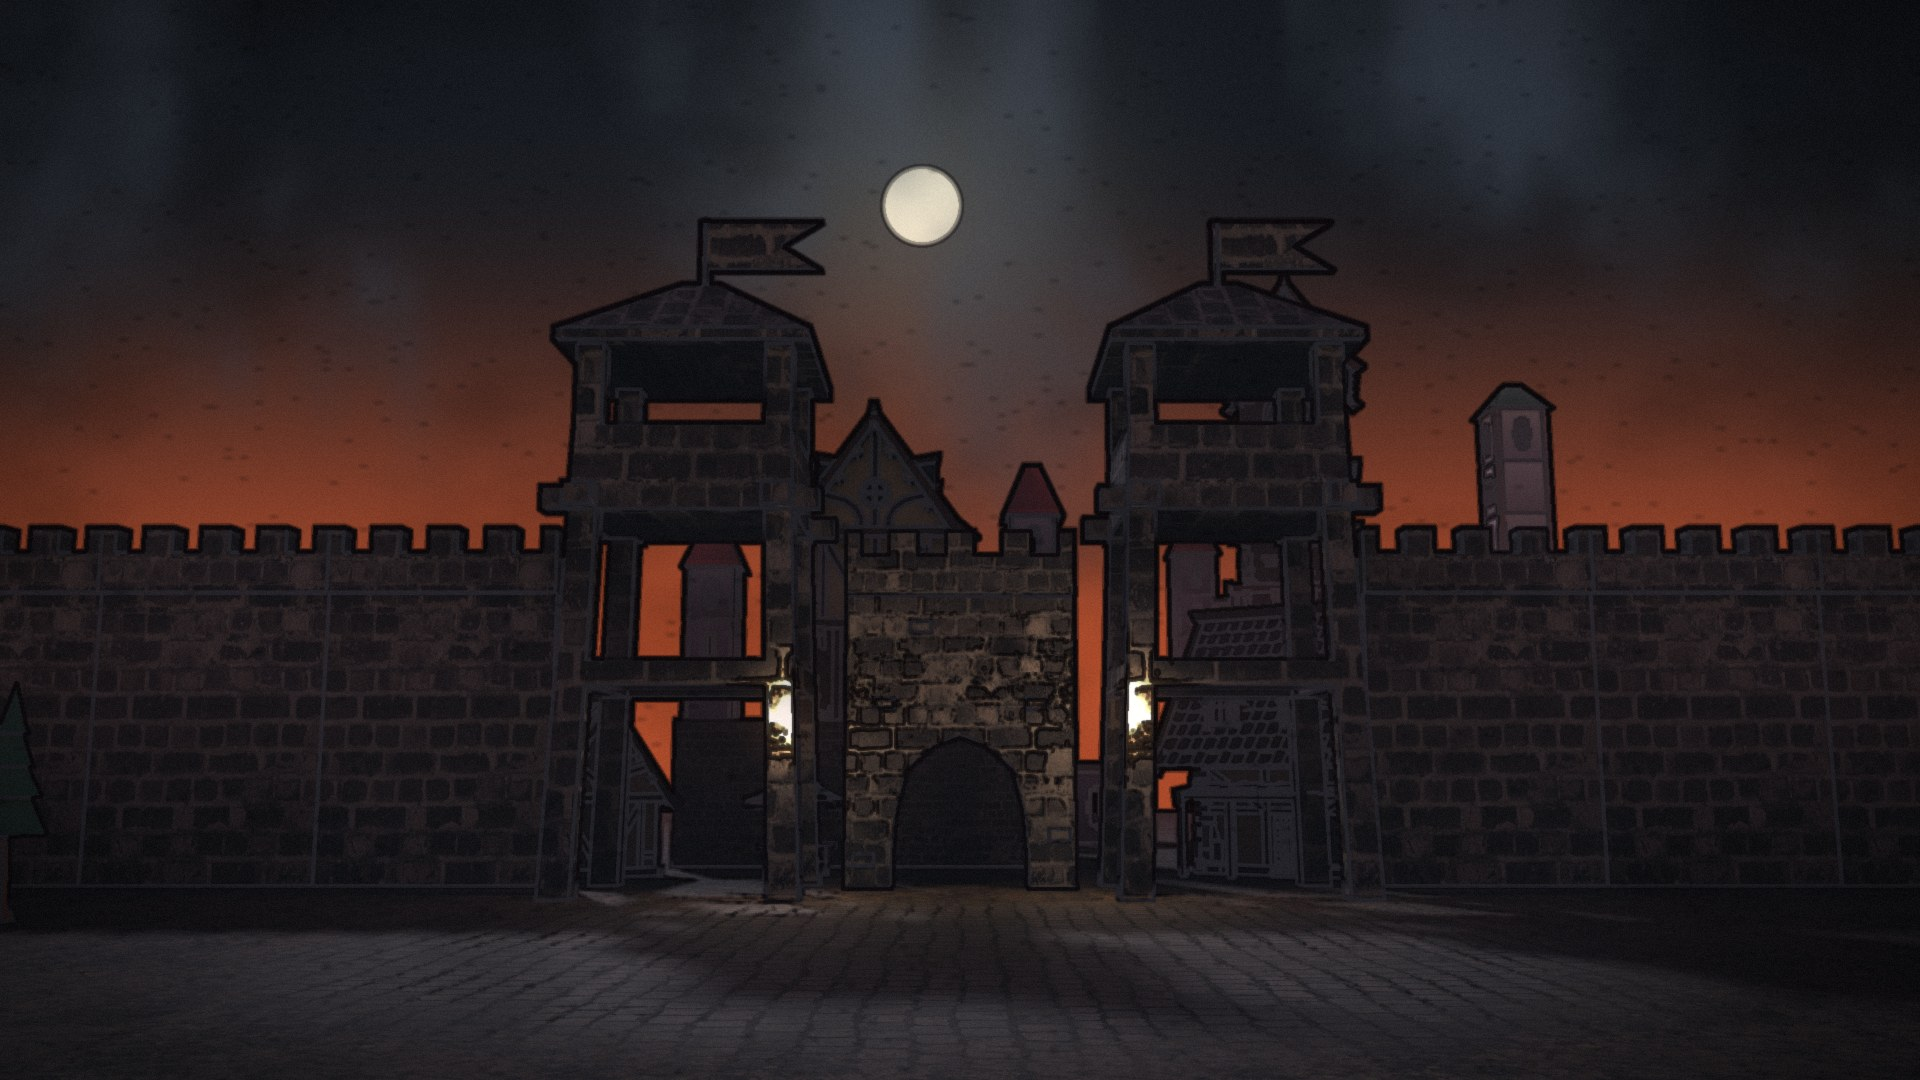
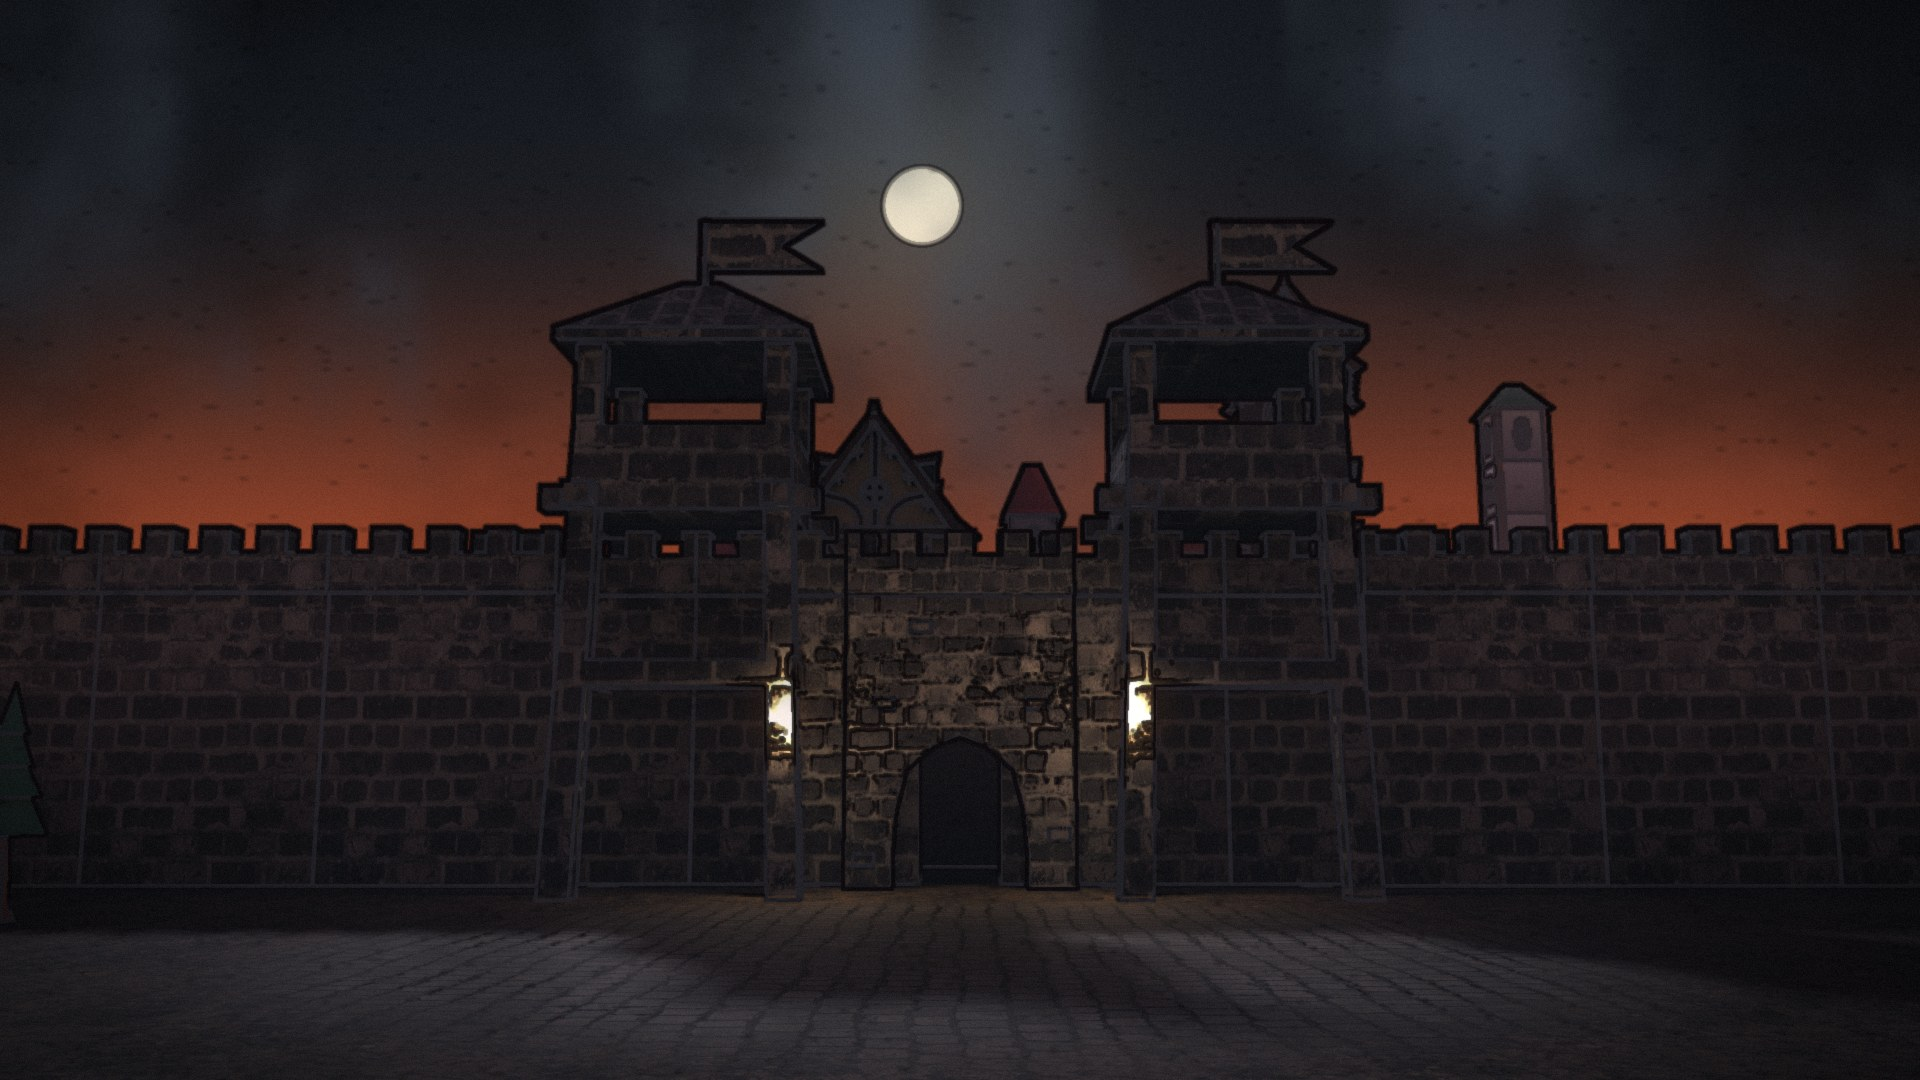
Kapılar: 27 kapı kule altı duvarla bitti (K4); CLAUDE.md kapı kuralı

diff --git a/CLAUDE.md b/CLAUDE.md
@@ -3126,6 +3126,9 @@ paid for. A new game starts in a city (`character_creation.gd` →
   it and raises a red horizon and three smoke columns; overcast/rain/fog/storm (the city's own seeded weather,
   `RouteWeather.at("city|<id>", day)`, never stored) turns it grey. Colour only, so the click mask stays aligned.
   `tests/screenshot_city_moods.gd` prints all three at noon and night.
+- **A gate's wall runs behind its towers (user's decision A5).** The gate scenes (`settlement_gates.py`, `gates.json`)
+  put a `TallWall` piece behind every watchtower (`WALL_BEHIND_DEPTH`), so the curtain wall meets the gate instead of
+  stopping at an open tower base. Known open item: the tower flags take the stone tint (K13, to fix later).
 - **The square is not empty, and it is staged, not crowded (task Y-G10T).** `TownsfolkLayer` places small scenes from
   the approved drafts: at night a watchman with a lantern, two people talking, one walking home; at dusk and by day a
   vendor, an old man on a crate, a couple and a second walker join. Each figure takes the light of the spot it stands
